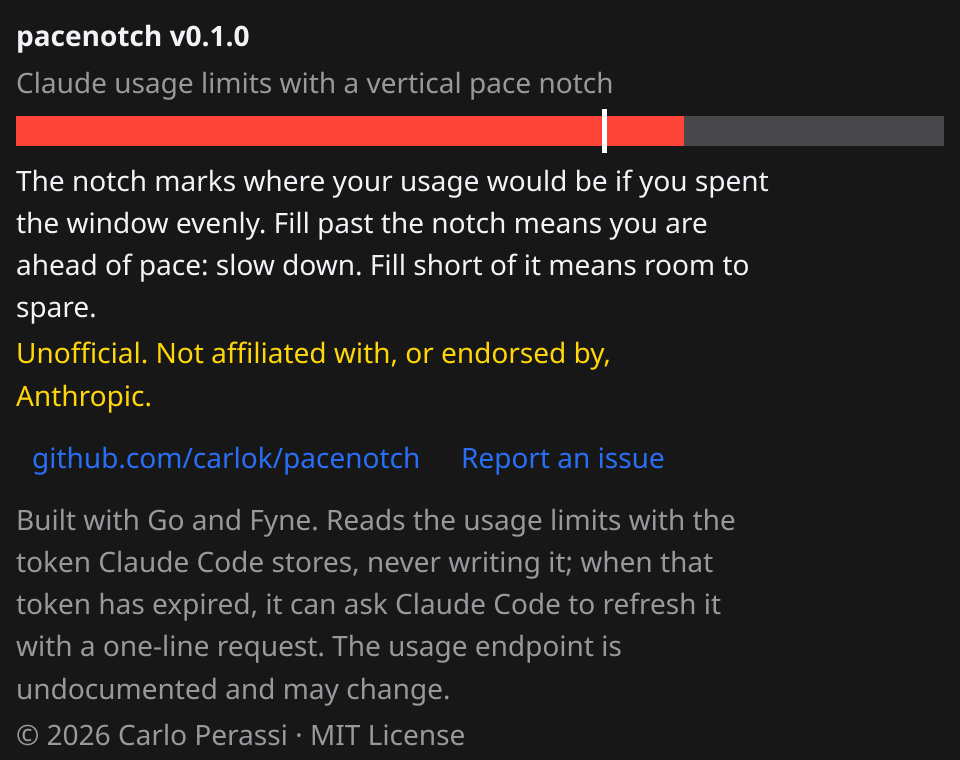
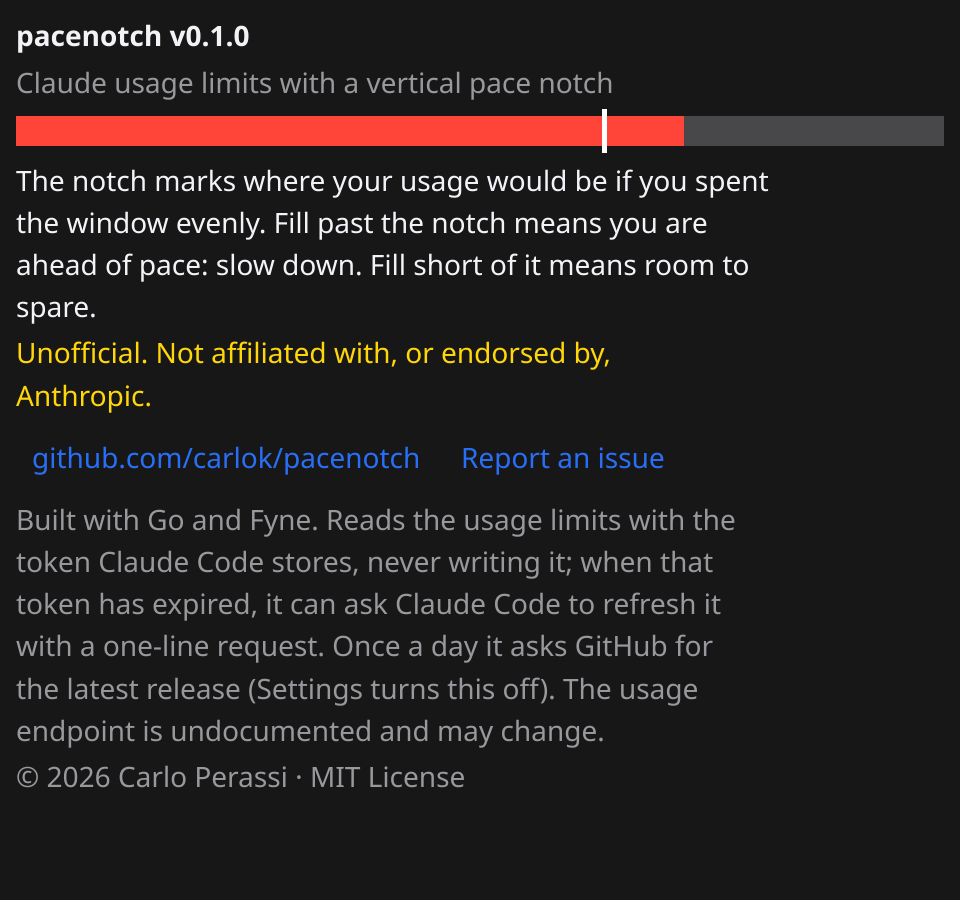
Tune: offline update retry, About note, CI timeouts, release notes header
Fixes
- update check: being offline retries after an hour instead of waiting a day
  (rate limits and bad responses still wait a day)
- About says pacenotch asks GitHub once a day for the latest release; the About
  window and its screenshot are taller to fit the line
- README coverage table matches the current make cover output

Tuning
- CI: timeout-minutes on every job; fuzz only on Linux; the Windows job builds
  the CLI with scripts/build-windows.ps1
- FuzzGUIAssetURL: the URL the app would open is empty or a release download
- releases open with a "which file" table and first-run notes
  (.github/release-notes-header.md, prepended to the generated notes)

Changed region(s): [[0.0, 0.0303, 1.0, 0.6355], [0.0, 0.6658, 0.7812, 0.9987]]

diff --git a/internal/update/update_test.go b/internal/update/update_test.go
@@ -6,6 +6,7 @@ import (
 	"io"
 	"net/http"
 	"net/http/httptest"
+	"strings"
 	"testing"
 	"time"
 )
@@ -167,6 +168,24 @@ func FuzzParseSemver(f *testing.F) {
 		}
 		if v[0] < 0 || v[1] < 0 || v[2] < 0 || v.Less(v) {
 			t.Fatalf("%q parsed to %v", s, v)
+		}
+	})
+}
+
+// FuzzGUIAssetURL: never panics, and the URL the app would open is either "" or one of the
+// given asset URLs under the release download prefix, whatever the names and addresses are.
+func FuzzGUIAssetURL(f *testing.F) {
+	ok := DownloadPrefix + "v0.2.4/pacenotch-gui_linux_amd64"
+	f.Add("pacenotch-gui_linux_amd64", ok, "pacenotch-gui_macos_universal.zip", "https://evil.example/x", "linux", "amd64")
+	f.Add("pacenotch-gui_macos_universal.zip", DownloadPrefix+"v1/z", "", "", "darwin", "arm64")
+	f.Add("pacenotch-gui_windows_amd64.exe", DownloadPrefix+"../../evil", "x", "", "windows", "amd64")
+	f.Fuzz(func(t *testing.T, n1, u1, n2, u2, goos, goarch string) {
+		got := GUIAssetURL([]Asset{{n1, u1}, {n2, u2}}, goos, goarch)
+		if got == "" {
+			return
+		}
+		if !strings.HasPrefix(got, DownloadPrefix) || (got != u1 && got != u2) {
+			t.Fatalf("GUIAssetURL(%q/%q, %q/%q, %s, %s) = %q", n1, u1, n2, u2, goos, goarch, got)
 		}
 	})
 }

diff --git a/internal/gui/updater.go b/internal/gui/updater.go
@@ -2,6 +2,7 @@ package gui
 
 import (
 	"context"
+	"errors"
 	"strings"
 	"time"
 
@@ -41,11 +42,16 @@ func (u *Updater) Tick(ctx context.Context) {
 	}
 	now := u.Now()
 	if update.Due(time.Unix(int64(u.Store.IntWithFallback(PrefUpdateLastCheck, 0)), 0), now) {
-		u.Store.SetInt(PrefUpdateLastCheck, int(now.Unix())) // failures wait a day too
-		if rel, err := u.Check(ctx); err == nil {
+		u.Store.SetInt(PrefUpdateLastCheck, int(now.Unix())) // failures wait a day too...
+		rel, err := u.Check(ctx)
+		switch {
+		case err == nil:
 			u.Store.SetString(PrefUpdateTag, rel.Tag)
 			u.Store.SetString(PrefUpdateURL, rel.URL)
 			u.Store.SetString(PrefUpdateDownloadURL, rel.DownloadURL)
+		case errors.Is(err, update.ErrNetwork):
+			// ...except being offline, which says nothing about GitHub: try again soon
+			u.Store.SetInt(PrefUpdateLastCheck, int(now.Add(update.NetworkRetry-update.Interval).Unix()))
 		}
 	}
 	rel := update.Release{

diff --git a/internal/gui/updater_test.go b/internal/gui/updater_test.go
@@ -48,6 +48,26 @@ func TestUpdater(t *testing.T) {
 		t.Fatalf("a failed check waits a day and keeps the known release: checks %d store %v", checks, st)
 	}
 
+	// offline says nothing about GitHub: the next hourly tick tries again, not tomorrow's
+	clock = clock.Add(update.Interval)
+	answerErr = update.ErrNetwork
+	u.Tick(ctx)
+	if checks != 3 || len(found) != 4 {
+		t.Fatalf("offline check: checks %d found %d", checks, len(found))
+	}
+	clock = clock.Add(update.NetworkRetry - time.Minute)
+	u.Tick(ctx)
+	if checks != 3 {
+		t.Fatal("too early to retry after being offline")
+	}
+	clock = clock.Add(time.Minute)
+	answerErr = nil
+	u.Tick(ctx)
+	if checks != 4 || st[PrefUpdateLastCheck] != int(clock.Unix()) {
+		t.Fatalf("retry an hour after being offline: checks %d store %v", checks, st)
+	}
+	found = found[:3]
+
 	u.Version = "v0.4.0"
 	u.Tick(ctx)
 	if len(found) != 3 {

diff --git a/internal/gui/about.go b/internal/gui/about.go
@@ -39,7 +39,8 @@ const (
 	Copyright  = "© 2026 Carlo Perassi · MIT License"
 	Credits    = "Built with Go and Fyne. Reads the usage limits with the token Claude Code stores, " +
 		"never writing it; when that token has expired, it can ask Claude Code to refresh it " +
-		"with a one-line request. The usage endpoint is undocumented and may change."
+		"with a one-line request. Once a day it asks GitHub for the latest release " +
+		"(Settings turns this off). The usage endpoint is undocumented and may change."
 )
 
 // AboutLines is the plain-text content of the About window, top to bottom.

diff --git a/internal/gui/about_test.go b/internal/gui/about_test.go
@@ -31,6 +31,9 @@ func TestAboutLines(t *testing.T) {
 	if lines[0] != "pacenotch v1.2.3" || !strings.Contains(strings.Join(lines, "\n"), "Not affiliated with, or endorsed by, Anthropic") {
 		t.Errorf("about: %q", lines)
 	}
+	if !strings.Contains(strings.Join(lines, "\n"), "asks GitHub for the latest release") {
+		t.Error("About must say that it contacts GitHub once a day")
+	}
 	if AboutLines("")[0] != "pacenotch dev" {
 		t.Error("empty version")
 	}

diff --git a/internal/gui/screenshot_fyne_test.go b/internal/gui/screenshot_fyne_test.go
@@ -57,7 +57,7 @@ func TestScreenshots(t *testing.T) {
 			u.Show(v)
 		}
 		u.ShowAbout()
-		capture(t, u.about, fyne.NewSize(480, 380), filepath.Join(dir, "about-"+name+".png"))
+		capture(t, u.about, fyne.NewSize(480, 450), filepath.Join(dir, "about-"+name+".png"))
 		u.ShowSettings()
 		capture(t, u.settingsWin, fyne.NewSize(520, 500), filepath.Join(dir, "settings-"+name+".png"))
 

diff --git a/internal/update/update.go b/internal/update/update.go
@@ -24,6 +24,8 @@ const (
 	DownloadPrefix = "https://github.com/carlok/pacenotch/releases/download/"
 	// Interval is the minimum time between two checks.
 	Interval = 24 * time.Hour
+	// NetworkRetry is how soon a check that could not reach GitHub (offline, say) is tried again.
+	NetworkRetry = time.Hour
 )
 
 // Errors are fixed strings.

diff --git a/internal/gui/ui_fyne.go b/internal/gui/ui_fyne.go
@@ -375,7 +375,7 @@ func (u *UI) ShowAbout() {
 	if u.about == nil {
 		u.about = u.App.NewWindow("About pacenotch")
 		u.about.SetCloseIntercept(u.about.Hide)
-		u.about.Resize(fyne.NewSize(480, 400))
+		u.about.Resize(fyne.NewSize(480, 450))
 	}
 	th := Bars(u.Dark())
 	lines := AboutLines(u.Version)

diff --git a/README.md b/README.md
@@ -274,11 +274,15 @@ tests for the timestamp and response parsers, and the token-leak tests cover the
 
 ```text
 rule                              coverage   minimum  result
-internal/pace                       100.0%      100%  ok (102/102 statements)
-internal/usage                      100.0%       90%  ok (274/274 statements)
-internal/tui                         99.7%       90%  ok (309/310 statements)
-internal/gui(model+raster)          100.0%       90%  ok (208/208 statements)
-module(unit+e2e)                     99.9%       85%  ok (906/907 statements)
+internal/pace                       100.0%      100%  ok (98/98 statements)
+internal/usage                      100.0%       90%  ok (312/312 statements)
+internal/tui                         99.6%       90%  ok (284/285 statements)
+internal/gui(model+raster)          100.0%       90%  ok (334/334 statements)
+internal/claudecli                  100.0%       90%  ok (82/82 statements)
+internal/instance                   100.0%       90%  ok (41/41 statements)
+internal/autostart                  100.0%       90%  ok (102/102 statements)
+internal/update                      96.8%       90%  ok (60/62 statements)
+module(unit+e2e)                     99.8%       85%  ok (1326/1329 statements)
 ```
 
 The minimums live in `scripts/coverage-thresholds.txt`. The profile merges the unit tests

diff --git a/.github/release-notes-header.md b/.github/release-notes-header.md
@@ -1,0 +1,11 @@
+**Which file?**
+
+| Platform | GUI (tray and window) | Terminal |
+|---|---|---|
+| macOS | `pacenotch-gui_macos_universal.zip` (the `.app`) | `pacenotch_darwin_arm64`, `pacenotch_darwin_amd64` |
+| Windows | `pacenotch-gui_windows_amd64.exe` | `pacenotch_windows_amd64.exe` |
+| Linux | `pacenotch-gui_linux_amd64` | `pacenotch_linux_amd64` |
+
+First run: the macOS app is signed ad hoc, not notarized, so after a download run `xattr -d com.apple.quarantine pacenotch.app` once. On Windows, SmartScreen may warn about an unrecognised app: choose *More info*, then *Run anyway*. See the [README](https://github.com/carlok/pacenotch#install) for details.
+
+---
